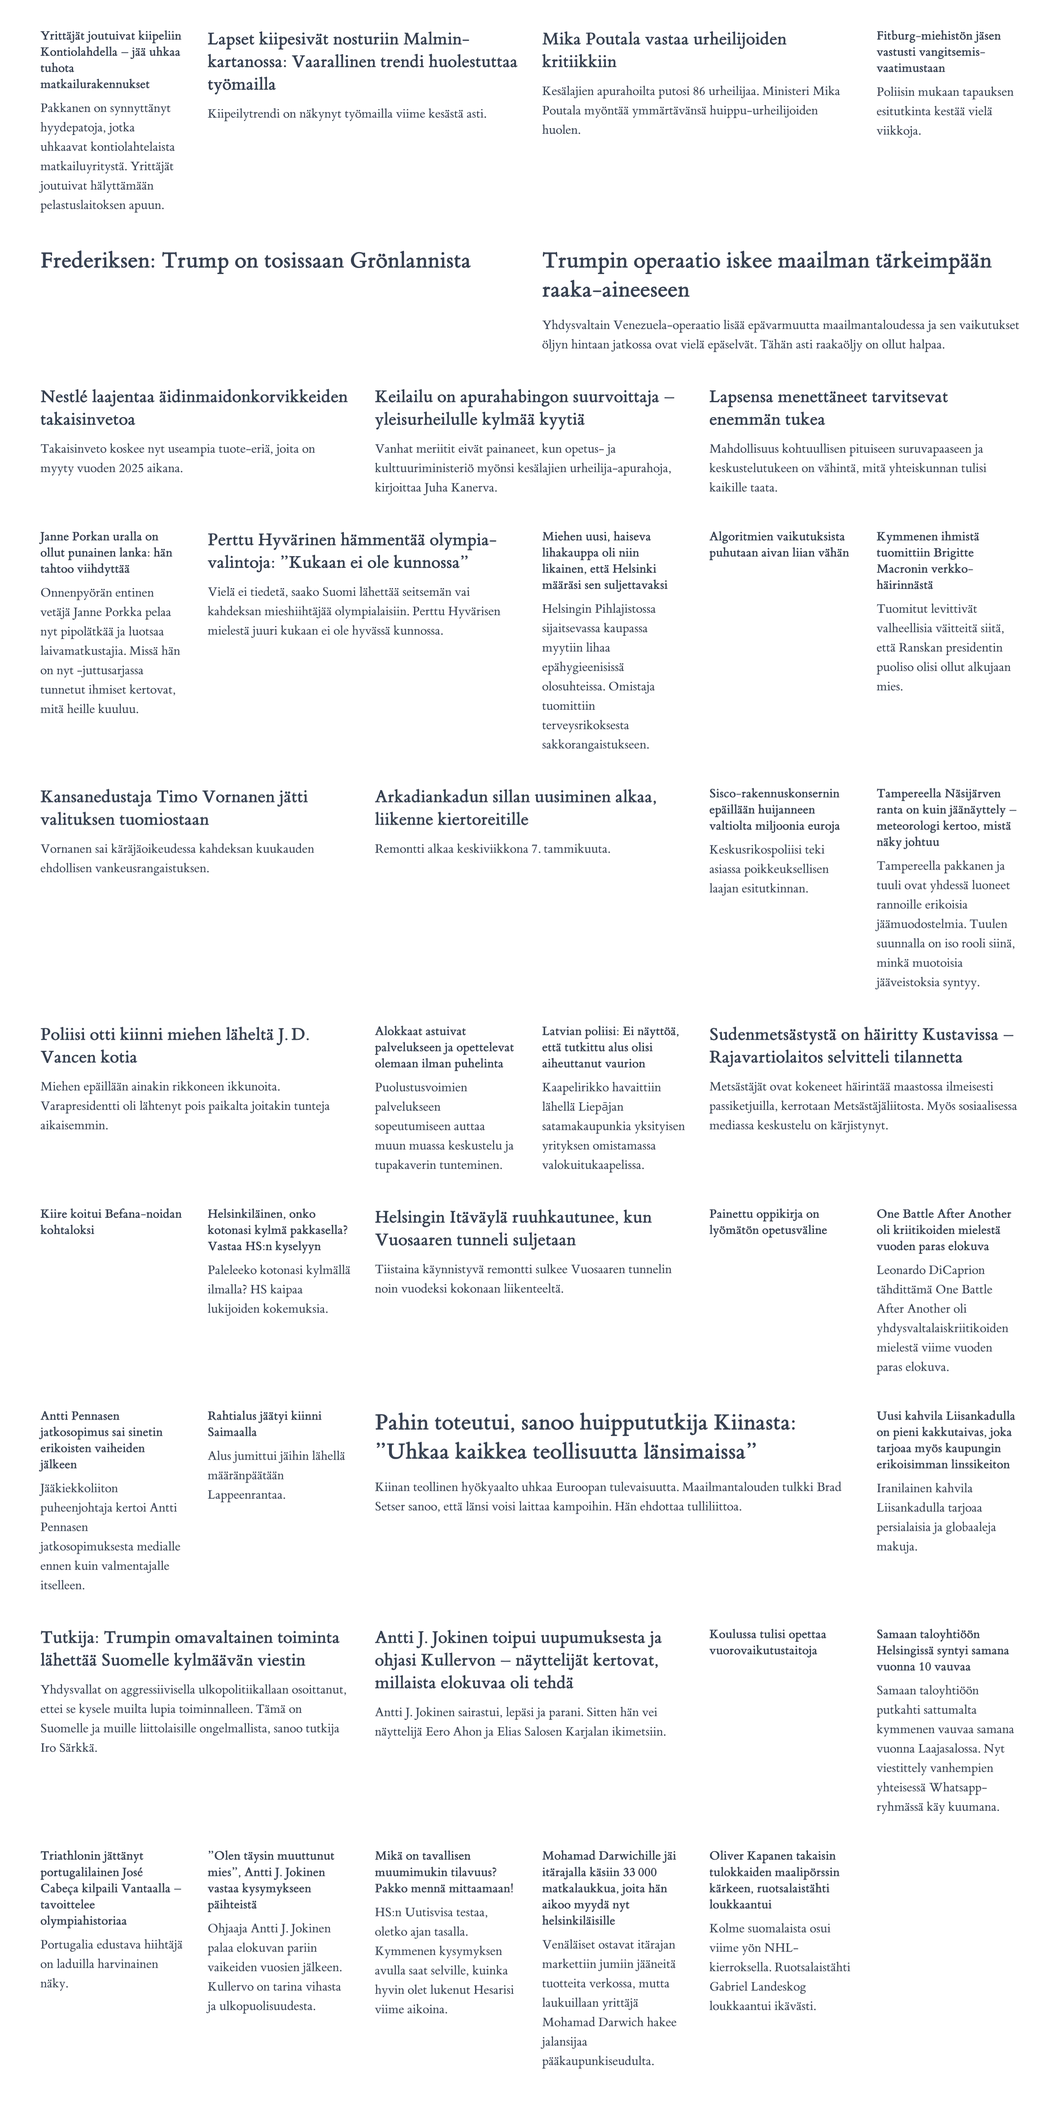
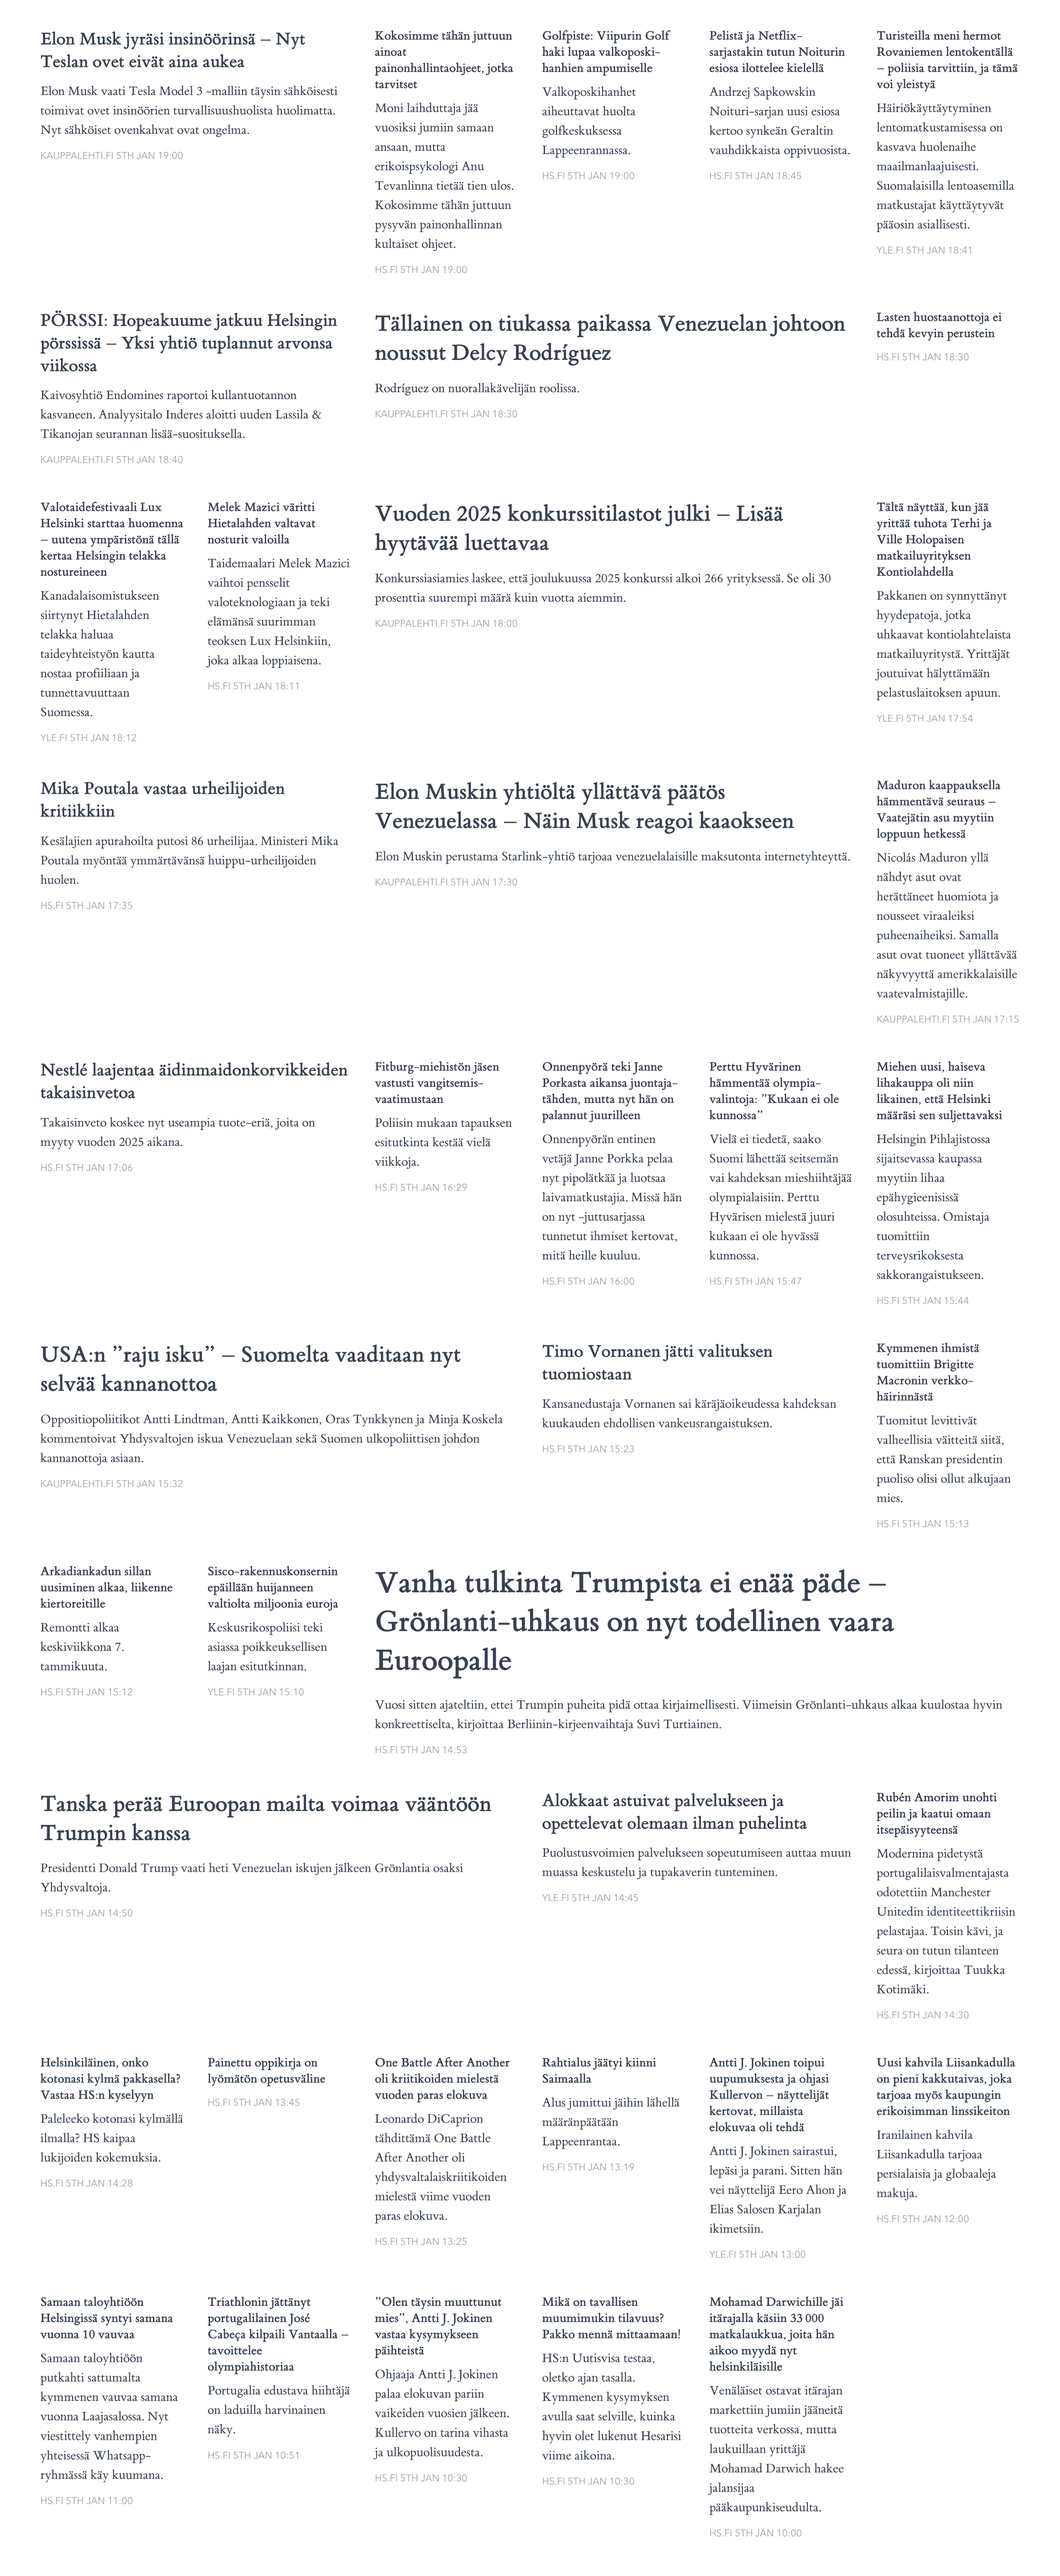
Add meta footer for articles

diff --git a/index.js b/index.js
@@ -5,6 +5,7 @@ import Anthropic from 'https://cdn.jsdelivr.net/npm/@anthropic-ai/sdk@0.71.2/+es
 const PARAMS = new URLSearchParams(window.location.search);
 
 const FEEDS = [
+    "https://feeds.kauppalehti.fi/rss/main",
     "https://www.hs.fi/rss/teasers/etusivu.xml",
     "https://yle.fi/rss/uutiset/paauutiset",
 ];
@@ -143,8 +144,20 @@ function render(feeds) {
         const description = document.createElement("p");
         description.textContent = feed.description;
 
+        const meta = document.createElement("p");
+        meta.className = "meta";
+        const domain = new URL(feed.url).hostname.replace(/^www\./, "");
+        const date = new Date(feed.publishedAt);
+        const day = date.getDate();
+        const ordinal = ["th", "st", "nd", "rd"][(day % 10 > 3 || Math.floor(day / 10) === 1) ? 0 : day % 10];
+        const monthNames = ["Jan", "Feb", "Mar", "Apr", "May", "Jun", "Jul", "Aug", "Sep", "Oct", "Nov", "Dec"];
+        const hours = String(date.getHours()).padStart(2, "0");
+        const minutes = String(date.getMinutes()).padStart(2, "0");
+        meta.textContent = `${domain} ${day}${ordinal} ${monthNames[date.getMonth()]} ${hours}:${minutes}`;
+
         article.appendChild(title);
         article.appendChild(description);
+        article.appendChild(meta);
         grid.appendChild(article);
     });
 }

diff --git a/index.css b/index.css
@@ -54,3 +54,10 @@ a {
 .article p {
   margin: 0.5em 0;
 }
+
+.meta {
+  opacity: 0.5;
+  text-transform: uppercase;
+  font-family: sans-serif;
+  font-size: 75%;
+}
